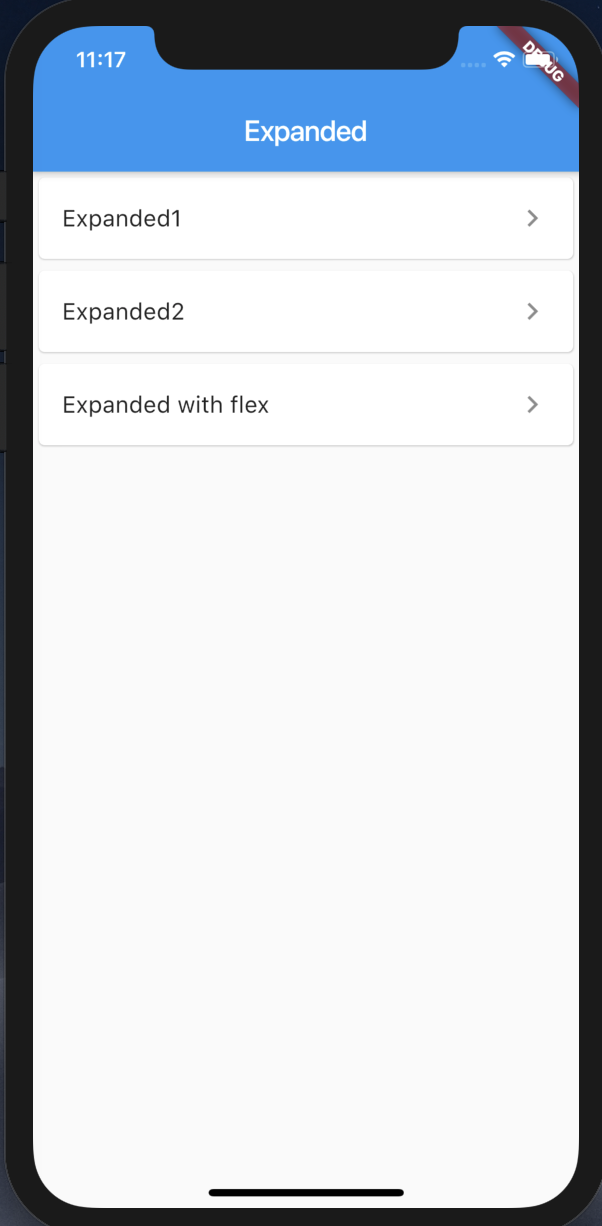
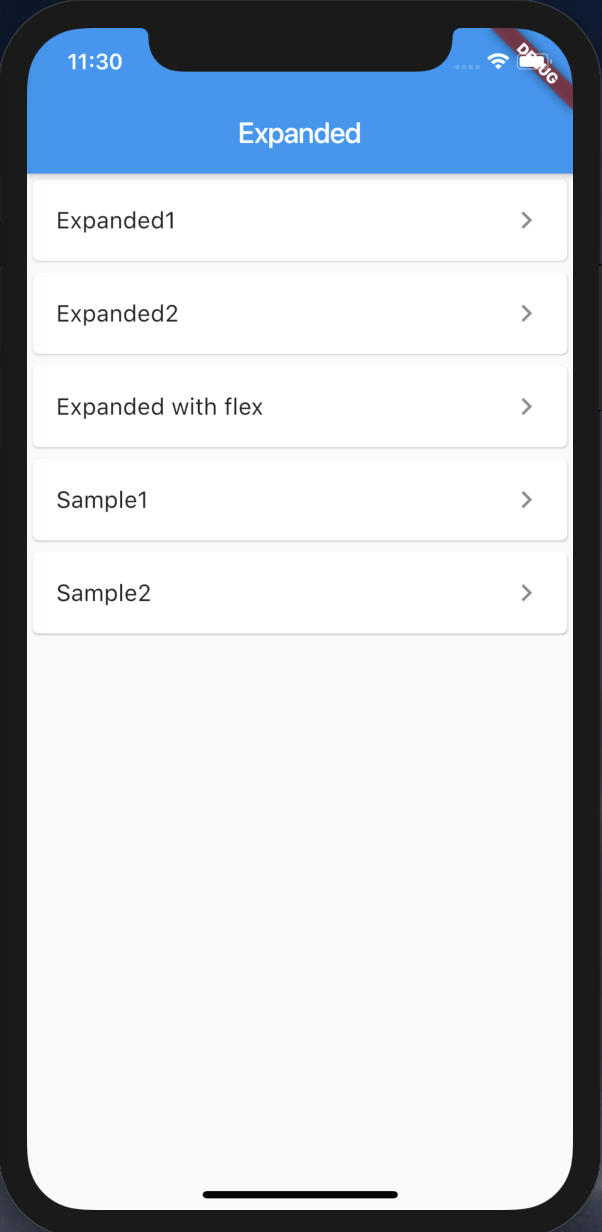
[Expanded] Add Samples

diff --git a/expanded/lib/main.dart b/expanded/lib/main.dart
@@ -12,6 +12,8 @@ class MyApp extends StatelessWidget {
         '/page1': (BuildContext context) => Page1(),
         '/page2': (BuildContext context) => Page2(),
         '/page3': (BuildContext context) => Page3(),
+        '/sample1': (BuildContext context) => Sample1(),
+        '/sample2': (BuildContext context) => Sample2(),
       },
     );
   }
@@ -32,6 +34,8 @@ class MyHomePage extends StatelessWidget {
             _buildList(context, 'Expanded1', '/page1'),
             _buildList(context, 'Expanded2', '/page2'),
             _buildList(context, 'Expanded with flex', '/page3'),
+            _buildList(context, 'Sample1', '/sample1'),
+            _buildList(context, 'Sample2', '/sample2'),
           ],
         ),
       ),
@@ -149,6 +153,75 @@ class Page3 extends StatelessWidget {
               child: Container(
                 child: Text('Expanded (1)'),
                 color: Colors.yellow,
+              ),
+            ),
+          ],
+        ),
+      ),
+    );
+  }
+}
+
+class Sample1 extends StatelessWidget {
+  @override
+  Widget build(BuildContext context) {
+    return Scaffold(
+      appBar: AppBar(
+        title: Text('Expanded Column Sample'),
+      ),
+      body: Center(
+        child: Column(
+          children: <Widget>[
+            Container(
+              color: Colors.red,
+              height: 100,
+              width: 100,
+            ),
+            Expanded(
+              child: Container(
+                color: Colors.blue,
+                width: 100,
+              ),
+            ),
+            Container(
+              color: Colors.red,
+              height: 100,
+              width: 100,
+            ),
+          ],
+        ),
+      ),
+    );
+  }
+}
+
+class Sample2 extends StatelessWidget {
+  @override
+  Widget build(BuildContext context) {
+    return Scaffold(
+      appBar: AppBar(
+        title: Text('Expanded Row Sample'),
+      ),
+      body: Center(
+        child: Row(
+          children: <Widget>[
+            Expanded(
+              flex: 2,
+              child: Container(
+                color: Colors.red,
+                height: 100,
+              ),
+            ),
+            Container(
+              color: Colors.blue,
+              height: 100,
+              width: 50,
+            ),
+            Expanded(
+              flex: 1,
+              child: Container(
+                color: Colors.red,
+                height: 100,
               ),
             ),
           ],

diff --git a/expanded/README.md b/expanded/README.md
@@ -10,3 +10,7 @@ Menu
 |Expanded1|Expanded2|Expanded with flex|
 | ------- | ------- | ---------------- |
 |<img src="./screenshots/Expanded1.png" height="400" alt="Screenshot"/>|<img src="./screenshots/Expanded2.png" height="400" alt="Screenshot"/>|<img src="./screenshots/ExpandedWithFlex.png" height="400" alt="Screenshot"/>|
+
+|Sample1|Sample2|
+| ------- | ------- |
+|<img src="./screenshots/Sample1.png" height="400" alt="Screenshot"/>|<img src="./screenshots/Sample2.png" height="400" alt="Screenshot"/>|
